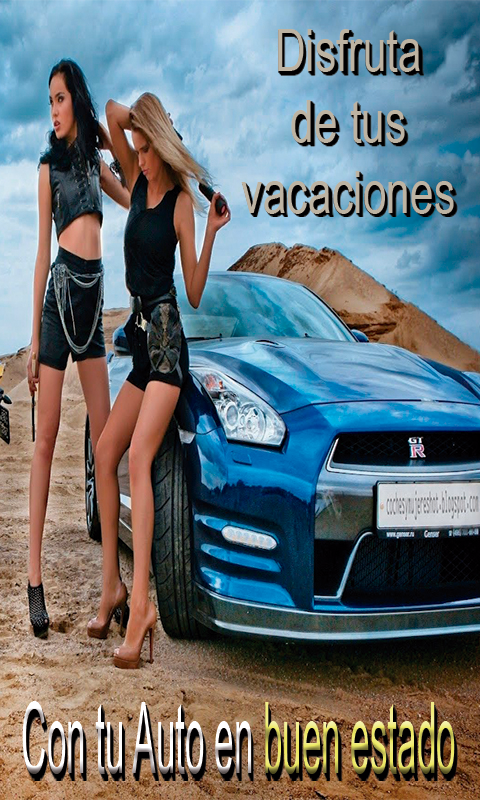
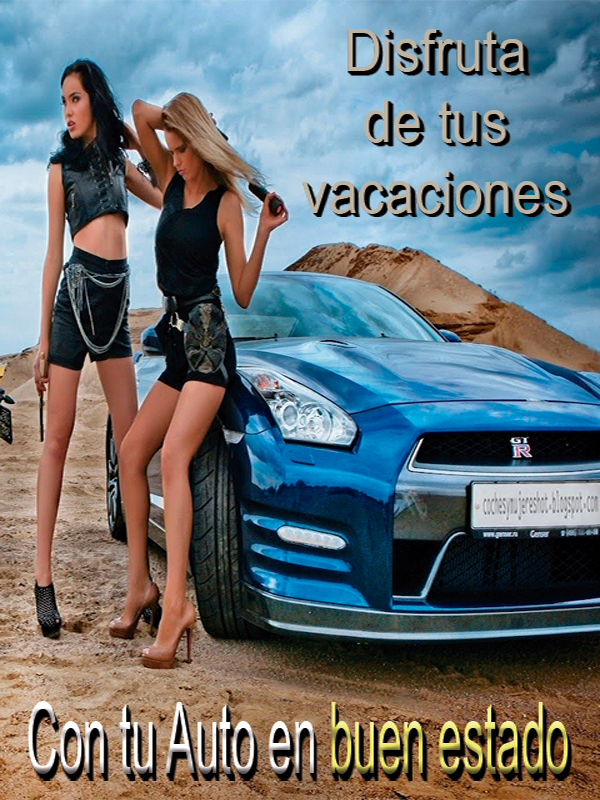
imagenes
cambio de tamalo de imagenes

diff --git a/index.html b/index.html
@@ -97,7 +97,7 @@ width: 100%;
 <!--¡Servicio y Reparación<br>CEA ATOMOTRIZ-->
 <div id="box">
 <div id="box-imagen">
-<a href="slide1.png"><img src="slide1.png" style= height="800"></a>
+<a href="slide1.png"><img src="slide1.png"></a>
 </div>
 </div>
 </div>
